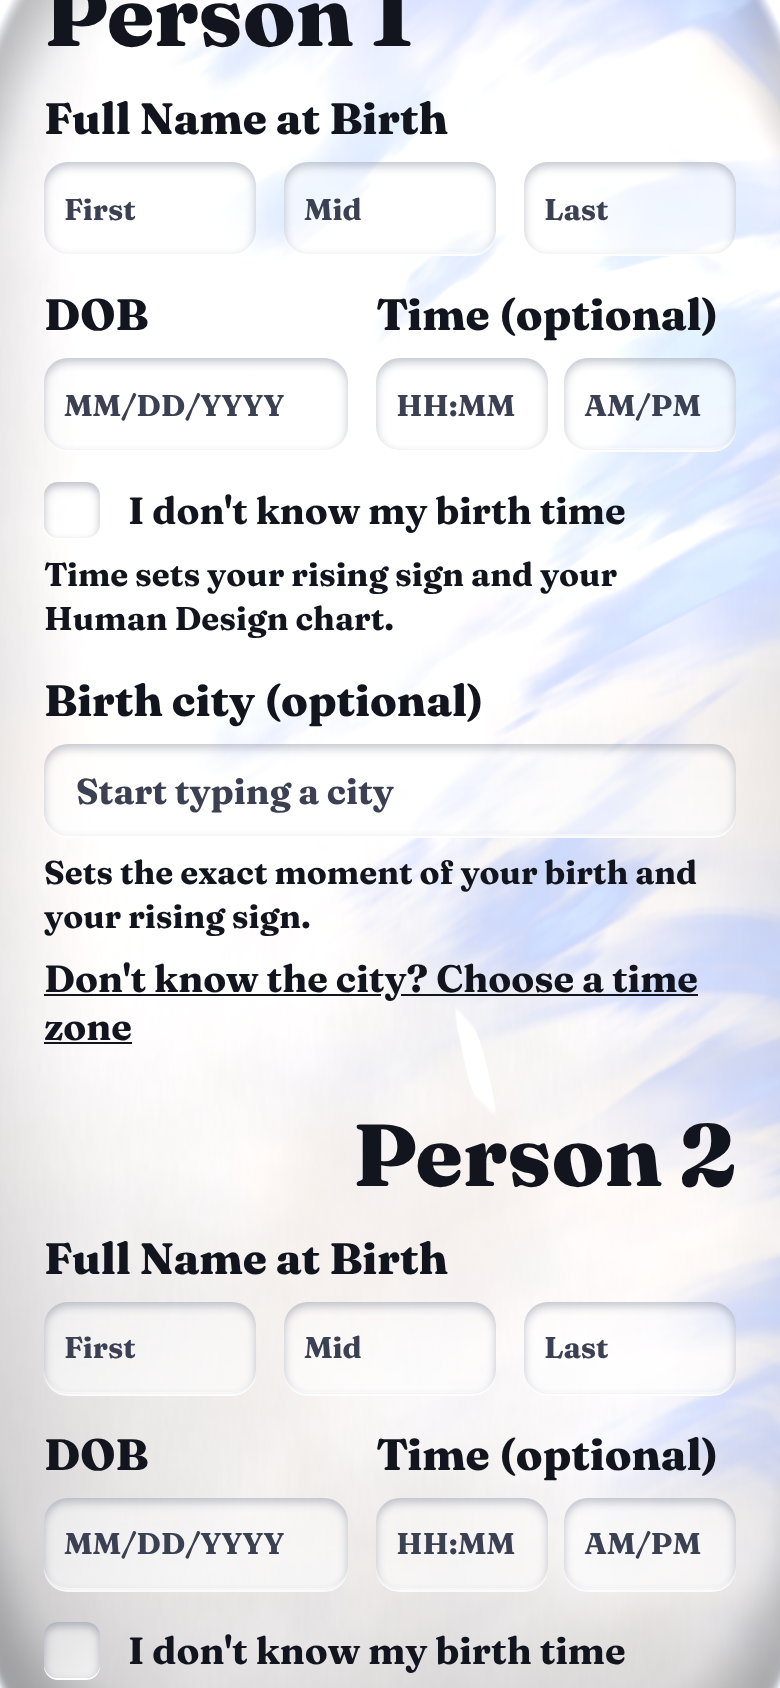
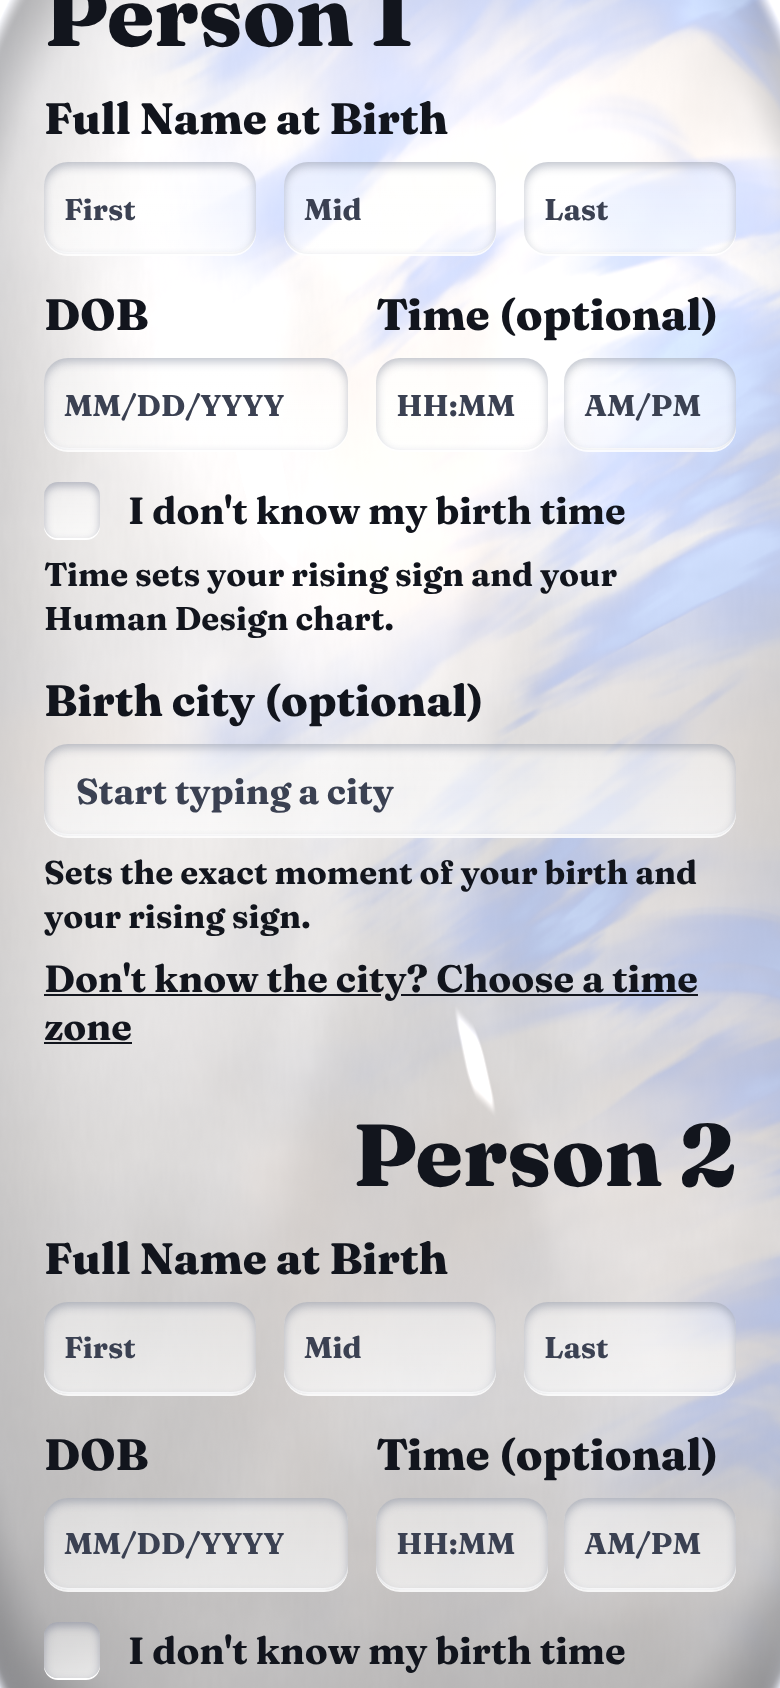
Moonstone: restore shine (reflections + tonal gloss) while keeping body bright
Claude-Session: https://claude.ai/code/session_01DRAcaZvypgnSaCTMdJvvGx

diff --git a/stone/stone-full.html b/stone/stone-full.html
@@ -22,8 +22,8 @@ vec3 env(vec3 r){
   c*=.85+.3*vn(vec3(r.xy*4.,1.));
   return c;}
 float boxes(vec3 r){
-  float b=rbox(r.xy,vec2(-.26,.30),vec2(.10,.075),.04,.008)*.85;
-  b+=rbox(r.xy,vec2(.20,-.16),vec2(.05,.035),.02,.012)*.30;
+  float b=rbox(r.xy,vec2(-.26,.30),vec2(.10,.075),.04,.008)*.95;
+  b+=rbox(r.xy,vec2(.20,-.16),vec2(.05,.035),.02,.012)*.40;
   return b;}
 void main(){
   vec2 p=(gl_FragCoord.xy-.5*R)/R.x;            // units of screen width, y up
@@ -60,10 +60,10 @@ void main(){
     }
     // fine grain (irregular, low contrast) so the interior reads as crystal not haze
     float grain=vn(vec3(p*vec2(310.,70.),2.))*.5+vn(vec3(p*vec2(160.,38.),7.))*.5;
-    vec3 body=vec3(.972,.958,.945)*(.985+.015*grain);
+    vec3 body=vec3(.955,.94,.925)*(.985+.015*grain);
     body=mix(body,vec3(.90,.90,.93),clamp(cloud,0.,1.)*.45);
     float wm=smoothstep(.45,.75,fbm(vec3(p*2.2,4.)));body=mix(body,vec3(.995,.945,.90),wm*.45);
-    float dif=clamp(dot(N,Ld)*.7+.45,0.,1.);body*=.76+.26*dif;
+    float dif=clamp(dot(N,Ld)*.7+.45,0.,1.);body*=.72+.24*dif;
     body*=.93+.09*smoothstep(-.4,.5,(-p.x+p.y)*1.1);
     // thin edge: glassy, takes on the surface colour and a darker total-internal-reflection ring
     body*=1.-.09*smoothstep(.6,1.,d);
@@ -77,7 +77,9 @@ void main(){
     vec3 c=mix(body,bc,bl*.85)+vec3(.95,.97,1.)*silver;
     // polished surface
     vec3 r=reflect(-V,N);float F=.045+.955*pow(1.-max(dot(N,V),0.),5.);
-    c+=env(r)*(F*1.0+.05)*vec3(.98,.99,1.);
+    vec3 ev=env(r);float el=dot(ev,vec3(.33));
+    c*=.90+.10*smoothstep(.25,.9,el);
+    c+=ev*(F*1.0+.05)*vec3(.98,.99,1.);
     c+=vec3(1.,1.,1.02)*boxes(r)*(.55+.45*F*6.)*.95;
     float edgeLit=smoothstep(.965,.995,d)*smoothstep(-.1,.7,(-p.x+p.y)*1.4);c+=vec3(1.)*edgeLit*.30;
     col=mix(col,c,a);
